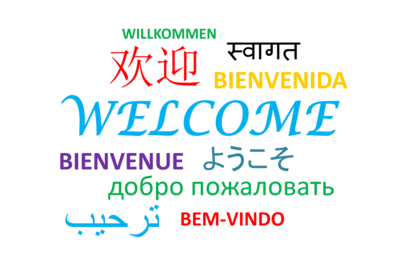
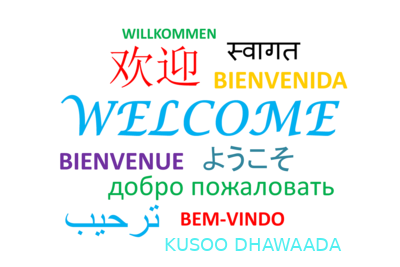
updated email address and edited welcome.png

Changed region(s): [[0.39, 0.8689, 0.87, 0.9588]]

diff --git a/index.html b/index.html
@@ -120,7 +120,7 @@
 
 
       <div style="margin:4ex 0;position:relative;text-align:center;font-family:ar;color:#42507F">
-	<div id="slogan">Translating and Interpreting<span class="largeScreen"> in Rochester&nbsp;NY</span></div>
+	<div id="slogan">Translating and Interpreting<span class="largeScreen"> in New&nbsp;York&nbsp;State</span></div>
 
 
 	<div id="srv" style="position:relative;width:100%;text-align:center">
@@ -139,7 +139,7 @@
 	  </div>
 	</div>
 
-	<div id="contactus" style="text-align:center;margin-top:1ex;font-family:ar;color:#42507F">Email us at <a href="mailto:daily-languages@gmail.com">daily&#8209;languages@gmail.com</a> or call
+	<div id="contactus" style="text-align:center;margin-top:1ex;font-family:ar;color:#42507F">Email us at <a href="mailto:dailylanguages20@gmail.com">daily&#8209;languages@gmail.com</a> or call
 	  <a target="_blank" href="tel:+15857751623">(585)&nbsp;775&#8209;1623</a> for a free&nbsp;price&nbsp;quote.</div>
       </div>
     </div>

diff --git a/about.html b/about.html
@@ -62,7 +62,7 @@
 
       <section id="contact">
 	<h1>Let us work together!</h1>
-	<p>Email us at <a href="mailto:daily-languages@gmail.com">daily-languages@gmail.com</a> or call
+	<p>Email us at <a href="mailto:dailylanguages20@gmail.com">dailylanguages20@gmail.com</a> or call
 	  <a target="_blank" href="tel:+15857751623">(585)775-1623</a> for a free price quote.
 	</p>
       </section>
